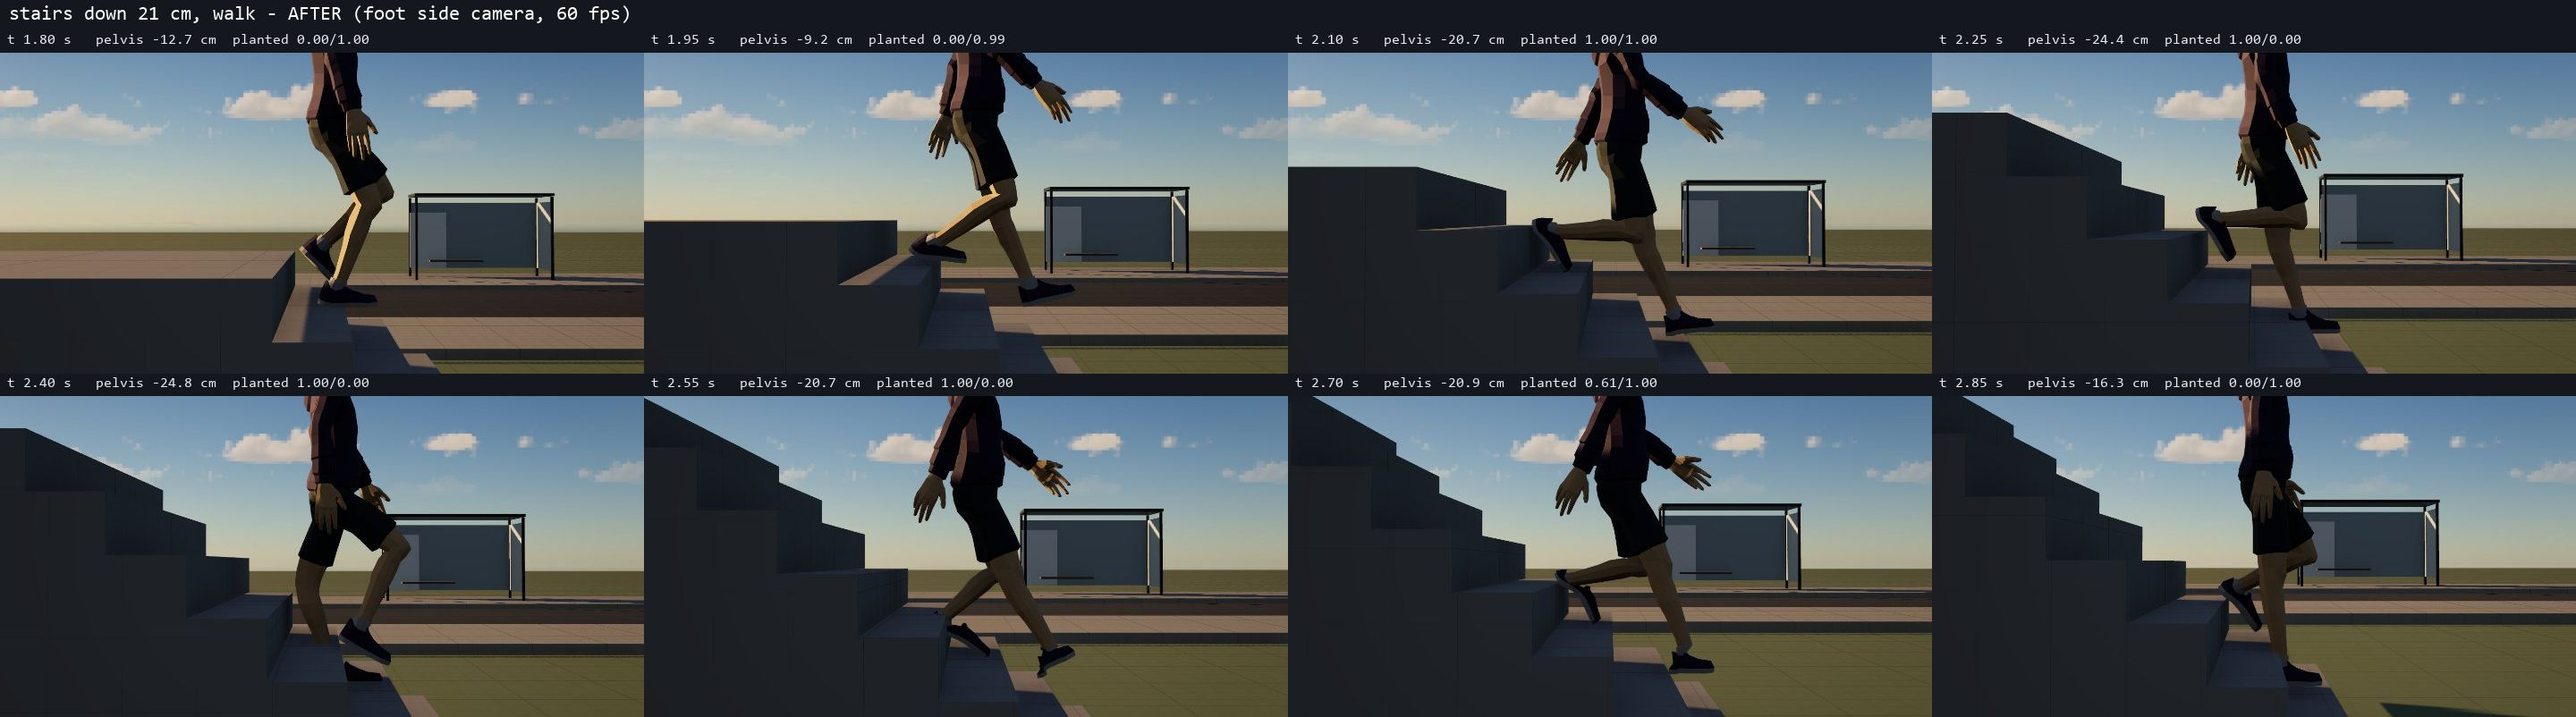
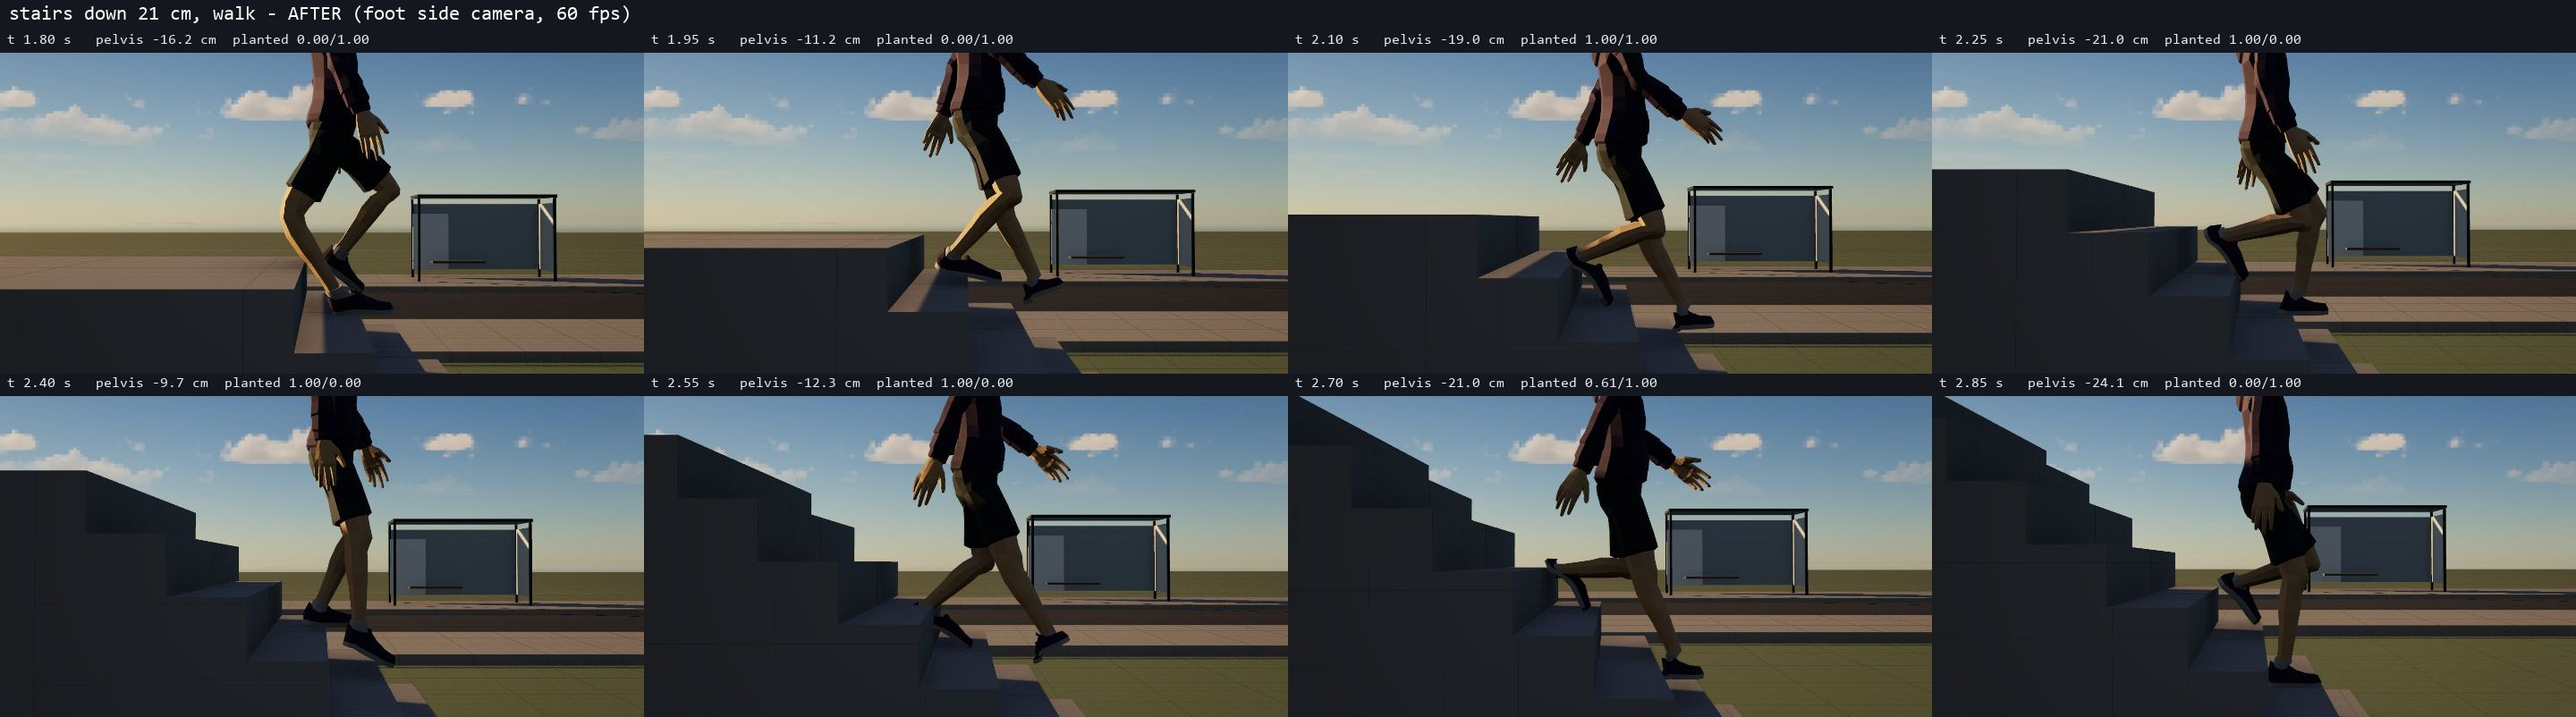
Character feet: grade read ahead (short first stair steps), docs/character report with before/after sheets and tables, TODO

diff --git a/viewer/character/index.js b/viewer/character/index.js
@@ -33,7 +33,7 @@ export class ThirdPerson {
     this.perf = { ms: 0, physMs: 0, camMs: 0, animMs: 0, ikMs: 0, maxMs: 0, steps: 0, _max: 0, _t: 0 };
     this.bodyState = { speed: 0, grounded: true, vy: 0, opacity: 1, gaitWalk: 2, gaitRun: 5.5 };
     this._gp = new Float64Array(3); this._rise = 0; this._run = 0;
-    this._by = { y: 0, v: 0, init: false };
+    this._by = { y: 0, v: 0, init: false }; this._ga = 0; this._gb = 0;
     this.stairSlow = 0.3;             // speed taken off on stairs / steep ramps with a character in the slot
     this._step = () => this.ctl.step();          // no argument: the controller reads its own dt
     this.body.root.visible = false;
@@ -84,7 +84,8 @@ export class ThirdPerson {
       this._gp[0] = c.pos[0]; this._gp[1] = c.pos[1]; this._gp[2] = c.pos[2];
       if (c.grounded && run > 1e-4 && run < 1) { this._rise += Math.abs(dy); this._run += run; }
       const k = Math.exp(-dt / 0.35); this._rise *= k; this._run *= k;
-      st.grade = this._run > 0.02 ? Math.min(2, this._rise / this._run) : 0;
+      // (and the grade AHEAD, from the ground line's samples: the first steps onto stairs are already short)
+      st.grade = Math.max(this._ga, this._run > 0.02 ? Math.min(2, this._rise / this._run) : 0);
     }
     this.body.update(dt, S[0], this.model ? this._bodyY(dt, alpha) : S[1], S[2], S[3], st, this.world);
     this.debug.update(c, this.cam, S[0], S[1], S[2]);
@@ -117,7 +118,9 @@ export class ThirdPerson {
         const W = this.world, R = W.r, H = W.hit;
         R[0] = px + dx * 0.22 * k; R[1] = py + 0.55; R[2] = pz + dz * 0.22 * k; R[3] = 0; R[4] = -1; R[5] = 0; H[0] = 1.1; H[4] = -1;
         W.raycast();
-        if (H[4] >= 0 && H[2] > 0.5) { const gy = py + 0.55 - H[0]; if (Math.abs(gy - py) < 0.5) { sum += gy; n++; } }
+        const ok = H[4] >= 0 && H[2] > 0.5, gy = py + 0.55 - H[0];
+        if (ok && Math.abs(gy - py) < 0.5) { sum += gy; n++; }
+        if (k === -1) this._gb = ok ? gy : NaN; else if (k === 1) this._ga = ok && this._gb === this._gb && vl > 0.2 ? Math.min(2, Math.abs(gy - this._gb) / 0.44) : 0;
       }
       if (n) target = sum / n;
       // never more than a step from the capsule's own feet

diff --git a/viewer/character/footIK.js b/viewer/character/footIK.js
@@ -146,9 +146,10 @@ export class FootIK {
       // of and behind the body), with the quicker cadence (body.js): a step about a tread, not a flat-ground stride
       if (stride < 0.999) {
         const ie0 = inner.matrixWorld.elements, rx = ie0[12], rz = ie0[14], k1 = stride - 1;
-        let d = (_H.x - rx) * hx + (_H.z - rz) * hz; _H.x += hx * d * k1; _H.z += hz * d * k1;
-        d = (_T.x - rx) * hx + (_T.z - rz) * hz; _T.x += hx * d * k1; _T.z += hz * d * k1;
-        d = (_F.x - rx) * hx + (_F.z - rz) * hz; L.warp = d * k1; _F.x += hx * L.warp; _F.z += hz * L.warp;
+        // (the whole foot moved by its heel's warp: warping each point would shorten the foot itself)
+        L.warp = ((_F.x - rx) * hx + (_F.z - rz) * hz) * k1;
+        const wx = hx * L.warp, wz = hz * L.warp;
+        _H.x += wx; _H.z += wz; _T.x += wx; _T.z += wz; _F.x += wx; _F.z += wz;
       } else L.warp = 0;
       const hH = _H.y - rootY, hT = _T.y - rootY, low = Math.min(hH, hT);
       L.lift = low;

diff --git a/viewer/character/controller.js b/viewer/character/controller.js
@@ -18,7 +18,8 @@
 //      it lands on walkable ground no higher than stepHeight and gets further than the blocked move
 //   5. GROUND SNAP when it was grounded and nothing holds it: down in small chunks up to snapDistance (stairs and
 //      ramps on the way down, kerbs off the sidewalk), else it falls
-//   6. the visual height lags step-ups / snaps by a short exponential (stepOffset) so stairs look smooth
+//   6. the visual height lags step-ups / snaps by a critically damped spring (stepOffset) so stairs look smooth
+//      (an animated body in the slot stands on the ground line instead: index.js)
 // No allocations in step().
 import { Contacts, STRIDE } from "./world.js";
 

diff --git a/docs/character/README.md b/docs/character/README.md
@@ -1,0 +1,125 @@
+# Character feet: audit and fixes (branch claude/character-audit)
+
+The third-person character's controller and foot IK, checked with the camera on the feet, in slow motion, and
+**measured**: 29 scripted walks over the Capsule Lab course, each at a simulated 30, 60 and 144 fps.
+
+## How to look, how to measure
+
+- Lab: `labs/capsule-lab.html`, panel **Foot audit**: camera `feet side` / `feet front` / `feet top` / `feet 3/4`
+  (low, on the feet, following the character), a scripted walk to play on autopilot (looped), **time scale** under
+  Collision for slow motion, physics 30/60/120/240 Hz. The URL works too:
+  `labs/capsule-lab.html?play=stairs%20down%2021%20walk&cam=feet%20side&slow=0.25`
+- **measure all (30/60/144 fps)** runs `labs/footProbe.js` on every walk (synchronous, nothing rendered): per foot,
+  a heel and a toe point from the skinned mesh's own sole, a ray down under each.
+  - *slide*: speed of the sole points that are down, while the clip has the foot planted (m/s)
+  - *|gap|*, *gap p95*, *gap > 3 cm %*: the lower of heel / toe above (+) or into (-) the ground, planted frames
+  - *pen*: the deepest any foot point went into the ground (any frame: toes through risers)
+  - *knee min*, *pelvis sd* (hips over the feet plane), *hip v* (peak vertical hip speed: a step-up that jumps)
+- **T** runs the test suite: 31 controller tests + 2 new (no edge roll-up mid-jump) + 7 foot tests (40/40).
+- Raw tables: `audit-before.txt`, `audit-after.txt` (every walk x 30/60/144 fps). Frame sheets: `*-before.jpg`,
+  `*-after.jpg` (foot side camera, 60 fps, stepped).
+
+## What was wrong (before)
+
+| problem | numbers (worst of 30/60/144 fps) |
+|---|---|
+| planted feet slid: no foot lock, the clip's stride never matches the ground exactly | walk 0.19 m/s, **run 0.77-0.93 m/s**, turns 0.4 m/s |
+| toes through kerbs and risers: one ray under the ankle, the toe goes into the step before the ankle crosses | kerb 14-16 cm, stairs 24-31 cm |
+| feet hanging in the air going down stairs / steep ramps (IK weight 0.4 at a run, reach clamp, lag) | stairs down planted gap p95 22 cm, 45 deg ramp 43 cm |
+| foot sinking into the 55 deg slope it stands against | 13 cm mean, 84 % of planted frames > 3 cm off |
+| hips jumping at each stair step (exponential step lag: full speed at once) | 3.7-6.5 m/s peak hip speed on stairs |
+| a jump rolled the round capsule bottom up onto a ledge up to a step higher | jump height 0.9 m climbed a 1.0 m block |
+| no landing reaction | hips do not dip on landing |
+| the 30/60/144 fps results differed by a lot on kerbs (the eased planted foot) | e.g. kerb up pen 0 / 14 / 15 cm |
+
+## What changed
+
+`viewer/character/footIK.js` (rewritten, ~0.05 ms per frame, no allocations):
+- **foot lock**: while the clip has a foot planted (low *and* not swinging forward relative to the body: this walk
+  clip's swing skims the floor), a world-space correction (xz + yaw) cancels the drift of the sole points that are
+  down (heel, toe, or both: the roll from heel to toe is not a drift); fades out through the swing. Limits: 25 cm
+  drag, 26 deg twist, beyond them the foot pivots (fast turns stay upright instead of crouching).
+- **steps on the spot**: standing, a foot dragged > 11 cm or twisted > 22 deg by a turn lifts (7 cm) and is put down
+  where the clip has it, one foot at a time.
+- **heel + toe rays** (the sole's own points): a slope tilts the foot (<= 30 deg, raised when steeper); an **edge**
+  (heel and toe on two level treads, told apart from a slope by the plane's grade) holds the foot level on the higher
+  side: no toe in the riser, the heel hangs over a step down.
+- **swing look-ahead**: a swinging foot sees the ground ahead of its toe and is carried over a step before it gets
+  there; a foot about to land across a down-nosing is moved forward onto the lower tread (<= 10 cm).
+- planted feet: exact ground height (no lag: the old eased foot sank / floated by frame rate); swinging: eased.
+- **pelvis**: a critically damped spring (exact for any dt) to a part of the lower planted foot's drop, and always
+  low enough that each leg reaches (the clip's own leg extension allowed); **soft reach** in the 2-bone solve (no
+  knee snap); the foot is re-attached to the shin's end after the solve.
+- **landing absorb**: a touch-down kicks the pelvis spring down by the fall speed (1.5 m fall: 5-6 cm dip).
+- **stairs / steep ramps**: the stride is warped shorter along the heading (down to 0.6) and the cadence quicker
+  (body.js, up to 1.45x), the body slows by up to 30 % (`tp.stairSlow`): a step about a tread, not a flat-ground
+  stride straddling three nosings. The grade is read *ahead* from the ground line, so the first step is short too.
+- IK weight 1 on the ground at walk and run (was 0.4 at a run), 0 in the air, eased in fast on landing.
+
+`viewer/character/index.js`: the animated body stands on the **ground line** (mean of the ground at the feet and
+0.22 m behind / ahead) followed by a critically damped spring, instead of the capsule's per-step lag: hips travel
+smoothly up and down stairs. `autopilot` hook (scripted input), deterministic pose on teleport.
+
+`viewer/character/controller.js`: the step lag is a critically damped spring (no velocity jump per step; the camera
+and the capsule use it); **in the air an edge of a ledge above the feet blocks like a wall** (the rounded bottom no
+longer rolls up onto it: a 1.0 m block can't be climbed with the 0.9 m jump; the 0.6 m block / 0.8 m wall still can).
+
+## Before / after (worst of 30 / 60 / 144 fps)
+
+| surface | slide m/s | \|gap\| cm | gap p95 cm | gap>3cm % | pen cm | knee min | pelvis sd cm | hip v m/s |
+|---|---|---|---|---|---|---|---|---|
+| flat walk | 0.19 → **0.02** | 0.8 → **0.9** | 2.2 → **2.7** | 1 → **3** | 1.6 → **1.6** | 108 → **106** | 2.2 → **2.6** | 0.47 → **0.66** |
+| flat run | 0.77 → **0.02** | 0.3 → **0.3** | 1.1 → **1.2** | 0 → **0** | 1.6 → **1.5** | 53 → **53** | 2.5 → **2.5** | 1.41 → **1.47** |
+| kerb up 15 cm | 0.23 → **0.02** | 1.1 → **0.9** | 3.0 → **2.9** | 8 → **5** | 13.9 → **2.9** | 108 → **103** | 2.2 → **4.1** | 1.97 → **1.08** |
+| kerb down 15 + up 14 | 0.19 → **0.02** | 1.8 → **1.0** | 10.1 → **2.8** | 13 → **4** | 15.7 → **3.4** | 80 → **84** | 3.6 → **3.2** | 2.09 → **1.08** |
+| kerbs at run | 0.82 → **0.02** | 0.5 → **0.3** | 2.0 → **1.4** | 2 → **0** | 9.6 → **1.5** | 53 → **47** | 2.5 → **3.9** | 4.58 → **2.23** |
+| dropped kerb | 0.19 → **0.02** | 1.0 → **1.1** | 2.9 → **3.1** | 4 → **6** | 6.9 → **1.6** | 82 → **79** | 3.5 → **3.8** | 1.49 → **1.19** |
+| stairs up 17 walk | 0.21 → **0.03** | 7.2 → **1.6** | 15.6 → **4.8** | 59 → **17** | 24.8 → **15.8** | 97 → **65** | 4.7 → **7.8** | 3.65 → **1.97** |
+| stairs up 17 run | 0.93 → **0.16** | 3.6 → **0.6** | 13.4 → **2.8** | 38 → **6** | 23.6 → **15.0** | 53 → **32** | 2.6 → **11.6** | 6.51 → **3.50** |
+| stairs down 21 walk | 0.23 → **0.10** | 4.2 → **1.9** | 22.2 → **7.9** | 28 → **14** | 10.1 → **4.6** | 73 → **55** | 6.5 → **13.8** | 2.92 → **2.11** |
+| stairs down 21 run | 0.90 → **0.03** | 2.4 → **0.4** | 13.0 → **1.2** | 17 → **0** | 5.1 → **1.9** | 44 → **54** | 3.8 → **7.5** | 5.58 → **3.98** |
+| ramp 15 up | 0.20 → **0.03** | 1.9 → **1.5** | 4.7 → **4.5** | 19 → **14** | 4.0 → **1.8** | 108 → **87** | 2.6 → **4.2** | 0.91 → **1.30** |
+| ramp 15 down | 0.20 → **0.05** | 1.3 → **1.1** | 2.6 → **3.8** | 1 → **8** | 4.5 → **2.0** | 81 → **86** | 4.6 → **3.5** | 1.08 → **1.09** |
+| ramp 30 up | 0.21 → **0.06** | 2.7 → **2.5** | 6.9 → **7.4** | 39 → **23** | 10.0 → **4.1** | 97 → **63** | 3.7 → **7.5** | 1.58 → **1.93** |
+| ramp 30 down | 0.20 → **0.10** | 2.5 → **1.7** | 5.9 → **6.2** | 43 → **13** | 8.8 → **4.0** | 62 → **63** | 7.2 → **5.8** | 2.04 → **1.73** |
+| ramp 45 up | 0.24 → **0.07** | 2.3 → **1.8** | 7.2 → **5.6** | 27 → **15** | 20.8 → **12.1** | 84 → **52** | 4.1 → **12.1** | 2.44 → **2.57** |
+| ramp 45 down | 0.20 → **0.13** | 5.9 → **2.2** | 43.1 → **9.6** | 33 → **22** | 10.3 → **4.4** | 59 → **54** | 5.6 → **10.1** | 2.97 → **2.06** |
+| slope 55 (blocked) | 0.13 → **0.09** | 13.4 → **2.3** | 16.5 → **7.2** | 84 → **9** | 19.5 → **7.0** | 93 → **62** | 1.9 → **5.3** | 0.47 → **0.77** |
+| house stairs up | 0.12 → **0.09** | 2.4 → **1.4** | 14.2 → **6.4** | 20 → **14** | 31.1 → **19.8** | 56 → **48** | 4.5 → **12.1** | 6.16 → **8.94** |
+| house stairs down | 0.09 → **0.11** | 1.9 → **1.4** | 7.1 → **7.9** | 19 → **10** | 14.0 → **15.6** | 68 → **57** | 8.8 → **13.7** | 3.09 → **2.00** |
+| turn on the spot | 0.40 → **0.21** | 0.5 → **1.3** | 1.8 → **5.7** | 1 → **16** | 1.6 → **1.5** | 108 → **106** | 2.2 → **4.9** | 0.47 → **0.97** |
+| turn 90 walking | 0.43 → **0.23** | 0.8 → **1.0** | 2.2 → **3.1** | 1 → **7** | 1.6 → **1.6** | 108 → **106** | 2.2 → **3.3** | 0.47 → **0.79** |
+| start / stop walk | 0.16 → **0.10** | 0.4 → **0.8** | 1.7 → **4.0** | 1 → **7** | 1.6 → **1.6** | 108 → **110** | 2.1 → **2.8** | 0.47 → **0.59** |
+| start / stop run | 0.23 → **0.06** | 0.2 → **0.3** | 0.5 → **0.8** | 0 → **1** | 1.6 → **1.6** | 53 → **52** | 2.8 → **4.0** | 1.41 → **1.69** |
+| running jump | 0.87 → **0.21** | 0.3 → **0.3** | 1.2 → **1.2** | 0 → **0** | 1.6 → **1.5** | 53 → **53** | 2.7 → **6.4** | 5.83 → **6.41** |
+| fall 1.5 m | 0.01 → **0.00** | 0.2 → **0.2** | 0.3 → **0.4** | 0 → **0** | 0.0 → **4.5** | 59 → **59** | 2.5 → **5.3** | 3.81 → **8.23** |
+| walk into wall | 0.14 → **0.08** | 0.3 → **0.7** | 1.3 → **3.8** | 0 → **7** | 1.6 → **1.6** | 108 → **107** | 2.0 → **2.8** | 0.61 → **0.62** |
+| slide along wall | 0.25 → **0.03** | 0.8 → **1.0** | 2.2 → **2.7** | 1 → **2** | 1.6 → **1.6** | 108 → **109** | 2.2 → **2.9** | 0.47 → **0.57** |
+| past a trunk | 0.39 → **0.07** | 0.8 → **1.1** | 2.2 → **3.4** | 1 → **11** | 1.6 → **1.6** | 108 → **107** | 2.3 → **3.2** | 0.47 → **0.69** |
+
+Reading it: the planted-foot slide is gone almost everywhere (0.77-0.93 → 0.02-0.16 m/s at a run); toes no longer go
+through kerbs (14-16 → 2-3 cm); stairs and steep ramps keep the feet on the treads far more (planted gap p95 on
+stairs 13-22 → 1-8 cm); the frame rates now agree. Costs: the pelvis moves more on stairs and slopes (it bends to
+let the legs reach instead of leaving feet in the air: pelvis sd up to 12-14 cm, knees bend more), flat-ground
+planted gap p95 is ~0.5 cm higher (a locked foot a few cm from the clip's place, the leg near full length), turning
+on the spot reads its stepping foot as a small gap. *pen* is a worst single frame (often the toe tip exactly on a
+riser's face). *hip v* on landings now includes the absorb dip (that is the intent).
+
+The city (Place de Saint-Job, 10 walks / runs across the square, setts, kerbs, rails): planted slide 0.01-0.10
+m/s (one run along a wall 0.19), planted gap 0.2-1.1 cm mean, p95 0.8-3.6 cm. The interior house stairs
+(?interior=1 / interior lab, 18 x 18.2 cm): walking up gap p95 ~17 cm (the steep, 24 cm going: still the weakest
+case), down 8-11 cm, running down 0.3-2.8 cm.
+
+CPU: whole character 0.24 ms per frame (physics 0.04, camera 0.02, animation + IK 0.18, of which IK 0.055); the
+controller bench 3.7 us per 120 Hz step.
+
+## What remains
+
+- Walking UP steep stairs (37 deg house stairs, 17/29 course stairs): the clip's planted foot still straddles a
+  nosing for a few frames (heel on one tread, toe at the next riser: 15-20 cm worst frames). A real stair gait clip
+  (or a tread-snapped landing target computed from the stair's pitch) would fix it properly.
+- No jump / fall clip on this rig: the held run stride stays in the air (the landing now absorbs). A procedural
+  air pose (tucked legs, reaching for the ground before touch-down) is the next step; Quaternius UAL is still a
+  UE-style rig (needs retargeting).
+- The turn on the spot is a pivot + a corrective step, not a turn clip.
+- The pelvis drops a lot going down steep stairs (to 21-25 cm): legible as a careful descent, but a little deep.

diff --git a/docs/TODO.md b/docs/TODO.md
@@ -83,6 +83,12 @@ read-only (copy into `vendor/` with ORIGIN.md); measure GPU ms before / after (s
 - [ ] A jump / fall clip: none on this rig in a CC0 pack. Universal Animation Library 1 / 2 are CC0 (UAL2 License.txt
       checked) but on a UE-style rig (pelvis / thigh_l ...) and UAL2 has only NinjaJump: retargeting needs per-bone
       rest-pose correction. The held run stride stays for now.
+- [x] Feet audit + foot IK v2 (branch claude/character-audit, `docs/character/README.md`): foot lock (planted slide
+      0.2-0.9 → 0.02-0.16 m/s), heel + toe rays with slope / edge, swing look-ahead + landing shift, ground-line body
+      root + pelvis spring with reach, stride warp + cadence + slowdown on stairs, landing absorb, steps on the spot,
+      no capsule roll-up onto ledges mid-jump; lab foot cameras + `labs/footProbe.js` measurements, 40/40 tests.
+- [ ] Feet: walking UP steep stairs still straddles nosings for a few frames (15-20 cm worst); a procedural air pose
+      (tuck, reach before touch-down); a turn-in-place clip.
 - [x] Shelters are their own triangles in the roads BVH (open front, roof at 2.41 m: you walk in); lab test passes.
 - [x] Interiors: pilot house (branch claude/interior, `docs/INTERIOR.md`): footprint prism excluded, the cell's collider
       BVH added, own baked lighting (no city shadow map inside: no seam leaks), the character lit by baked ambient cubes.
